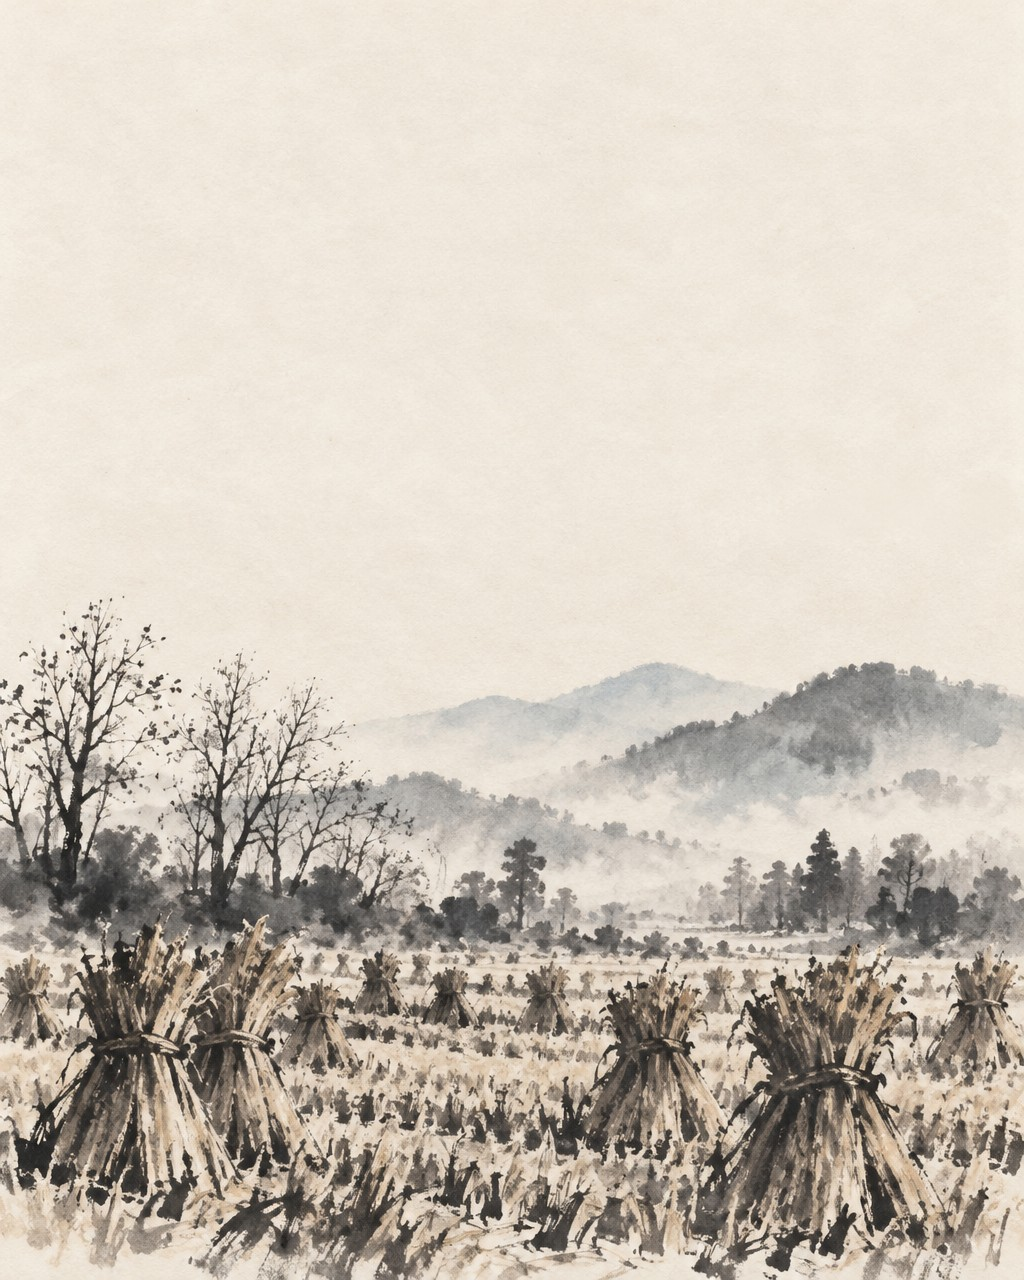
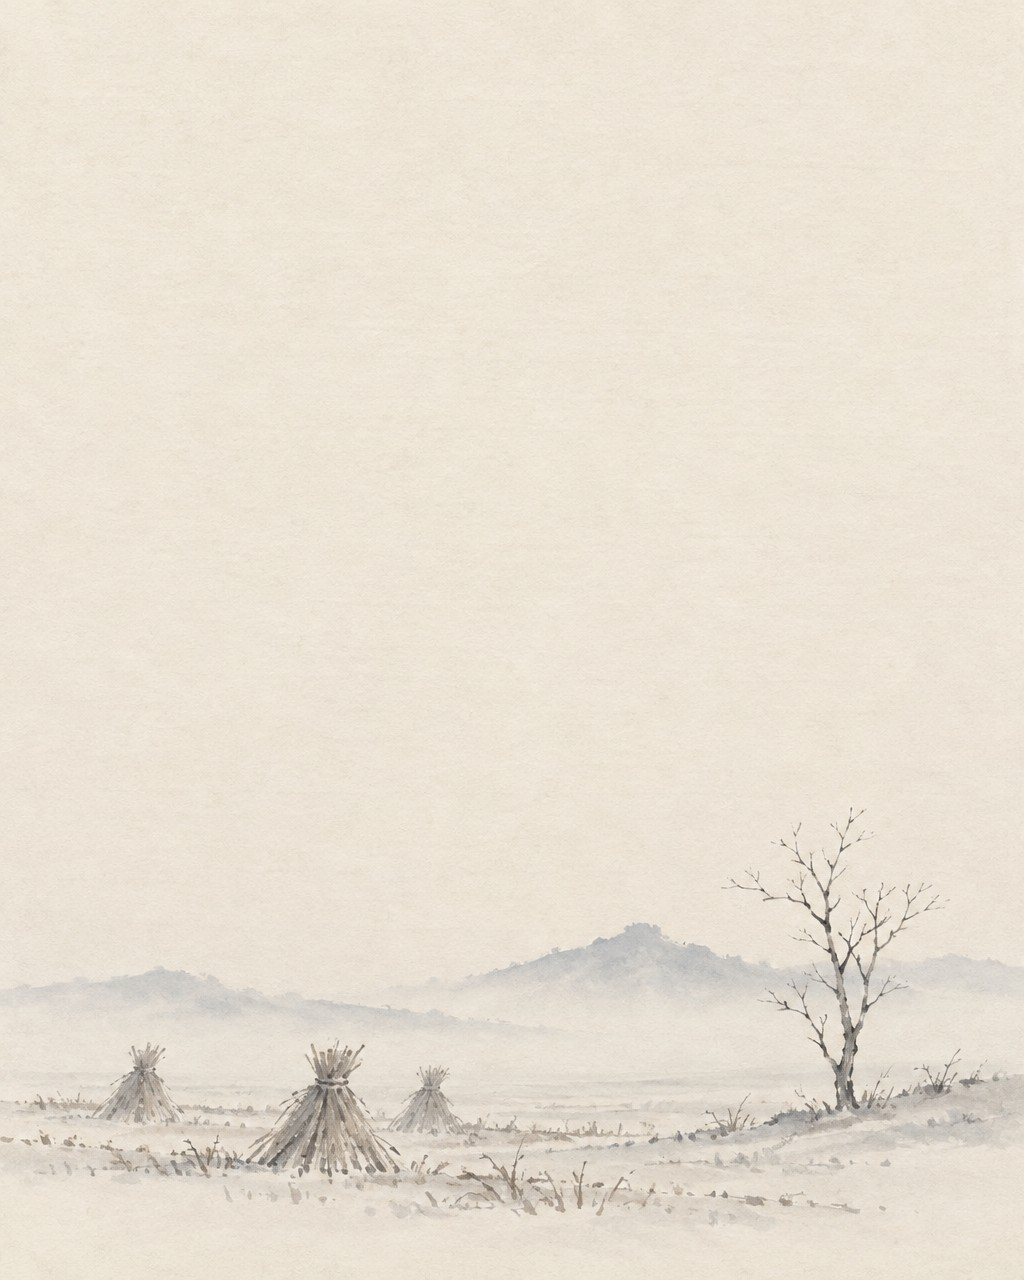
Day Master stage: minimal shanshui, toned like the house background plates
Owner: too detailed for a background; apply the minimal shanshui aesthetic and
take the background assets as the direction. The ten stages are repainted as
level-distance landscapes (Ni Zan, Ma Yuan): a thin band of few strokes in the
bottom fifth, pale ink, mist, the rest blank paper. On screen they are toned
like the house plates (warm, pale, no contrast boost) and dissolve upward.

Claude-Session: https://claude.ai/code/session_01RJRm3y3yvdzEnvZoX5yTx7

diff --git a/Elementum_App/src/components/journey/merged.css b/Elementum_App/src/components/journey/merged.css
@@ -309,9 +309,11 @@ button.ty-cc{ cursor:pointer; }
 .jny .dmp-ink.edge{ align-self:flex-end; width:60%; aspect-ratio:1 / 1; object-fit:cover; margin:-18px -15px -14px 0; border-radius:0 0 16px 0;
   -webkit-mask-image:linear-gradient(to bottom,transparent 2%,#000 34%),linear-gradient(to right,transparent 2%,#000 36%); -webkit-mask-composite:source-in;
   mask-image:linear-gradient(to bottom,transparent 2%,#000 34%),linear-gradient(to right,transparent 2%,#000 36%); mask-composite:intersect; }
-/* The stage (owner 2026-10-27: no empty space over 40% of the screen): the
-   stem's ground painting along the foot of the Day Master screen, under the
-   cards. Short cards (1, 5, 6) stand on it; its top dissolves into the rice paper. */
-.jny .jscreen > .ground-img2.dmp-stage{ top:auto; bottom:0; height:auto; aspect-ratio:4 / 5; object-fit:cover; mix-blend-mode:multiply;
-  filter:brightness(1.12) contrast(1.12); opacity:.85;
-  -webkit-mask-image:linear-gradient(to bottom,transparent 28%,#000 62%); mask-image:linear-gradient(to bottom,transparent 28%,#000 62%); }
+/* The stage (owner 2026-10-27: no empty space over 40% of the screen; then
+   "too detailed, apply minimal shanshui", "take the background assets as the
+   direction"): the stem's minimal level-distance landscape along the foot of
+   the Day Master screen, toned like the house background plates (pale, warm,
+   mist) and dissolving upward into the rice paper. Short cards stand on it. */
+.jny .jscreen > .ground-img2.dmp-stage{ top:auto; bottom:0; left:-12%; width:124%; max-width:none; height:auto; aspect-ratio:4 / 5; object-fit:cover; object-position:center bottom;
+  mix-blend-mode:multiply; filter:sepia(.25) brightness(1.04); opacity:.9;
+  -webkit-mask-image:linear-gradient(to bottom,transparent 30%,#000 70%); mask-image:linear-gradient(to bottom,transparent 30%,#000 70%); }

diff --git a/Design/Assets/DayMaster/README.md b/Design/Assets/DayMaster/README.md
@@ -16,4 +16,4 @@ The 30 painted masters for the Day Master reading page, one set of three per Day
 - **Subjects and prompts** are in `Design/Library/Design_Pass_2026-10/D1-D3_Day_Master_Illustrations_Brief.md`.
 - **How the page uses them** (`InkArt` in `MergedViews.jsx`, `.dmp-ink` in `merged.css`): each painting is multiplied onto the cardstock after a filter lifts its paper to white, so only the ink lands on the card. Masks dissolve every edge. D1 bleeds off the top of its card, D2 is a column the text flows around, and D3 closes its card from the bottom-right corner.
 
-- **The stage** (owner 2026-10-27: no empty space over 40% of the screen): one ground painting per stem, its scene in the lower half. It sits along the foot of the Day Master screen (`dmStage` in `MergedViews.jsx`, `.dmp-stage` in `merged.css`), so the short cards (1, 5 and 6 measured 43–62% empty) stand on the stem's own ground instead of bare paper.
+- **The stage** (owner 2026-10-27: no empty space over 40% of the screen): one ground painting per stem, its scene in the lower half. It sits along the foot of the Day Master screen (`dmStage` in `MergedViews.jsx`, `.dmp-stage` in `merged.css`), so the short cards (1, 5 and 6 measured 43–62% empty) stand on the stem's own ground instead of bare paper. Repainted the same day after the owner's notes "too detailed for the background, apply the minimal shanshui aesthetic" and "take the background assets as the direction". Each stage is now a level-distance (平远) landscape in the manner of Ni Zan and Ma Yuan: the scene is a thin band in the bottom fifth, made of very few strokes, with pale ink, mist between the planes, and the rest left as blank paper (留白). It is toned on screen like the house plates in `Design/Assets/Backgrounds` (warm, pale, no contrast boost). Reusing `bg-onboarding-03-bottom-anchor` directly was compared and set aside: it is generic and lays a muddier band across every stem. The first, detailed stages are in git history at commit b2a26f5a.
